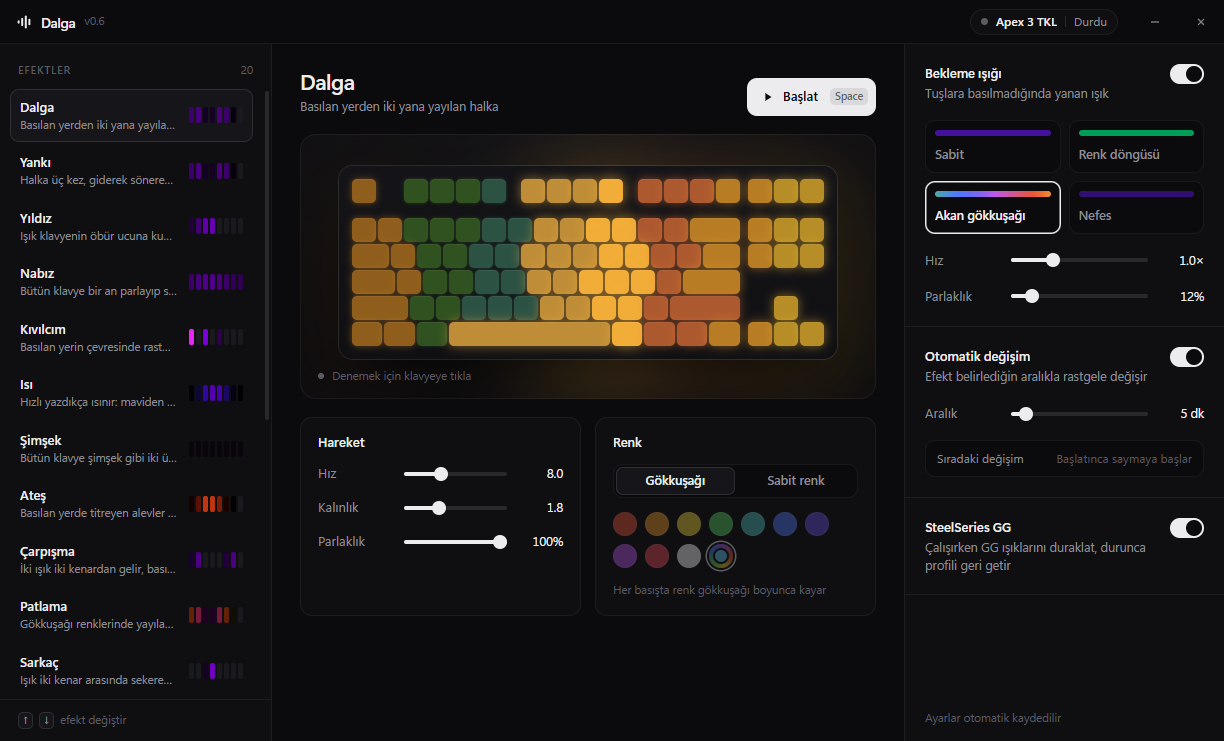
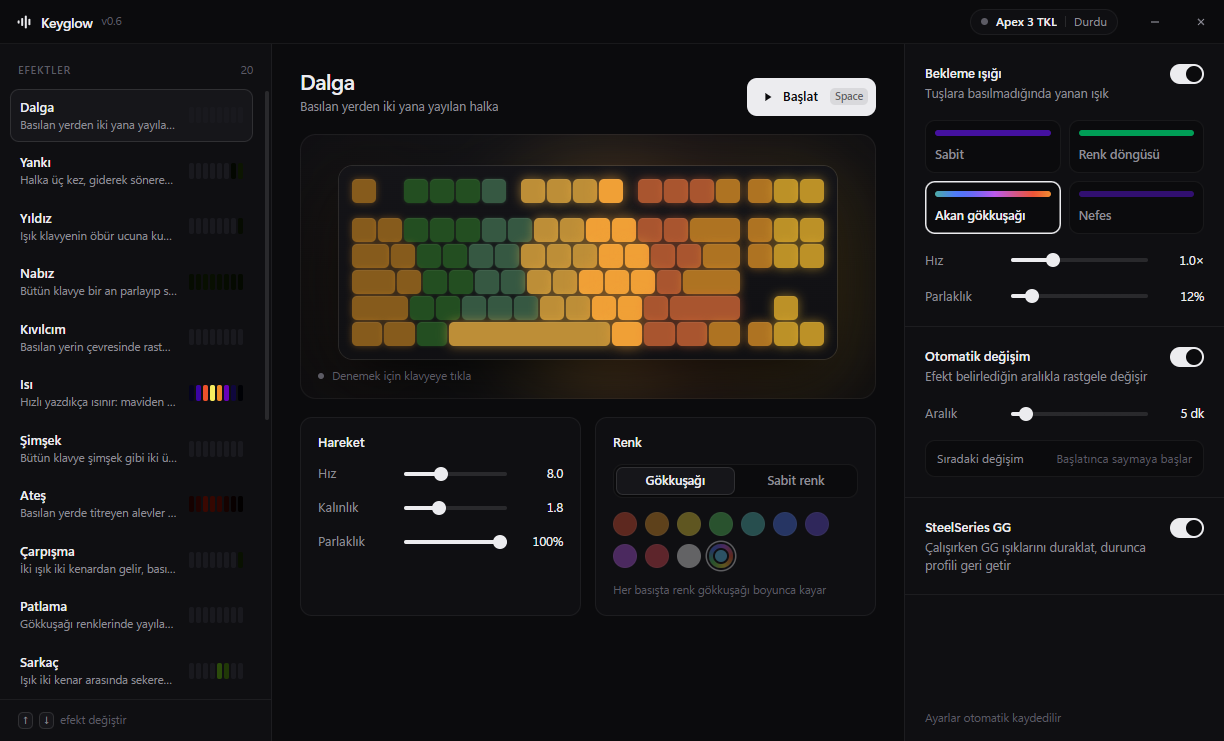
Uygulama adi Keyglow, repo adi keyboard-rgb-effects
Basliklar, README ve ekran goruntuleri yeni ada gore guncellendi; orijinal
Dalga projesine tesekkur korundu.

diff --git a/arayuz/index.html b/arayuz/index.html
@@ -3,7 +3,7 @@
 <head>
   <meta charset="utf-8">
   <meta name="viewport" content="width=device-width, initial-scale=1">
-  <title>Dalga</title>
+  <title>Keyglow</title>
   <link rel="stylesheet" href="style.css">
 </head>
 <body>
@@ -16,7 +16,7 @@
         <rect x="11" y="2" width="2.5" height="16" rx="1.25"/>
         <rect x="15.5" y="6" width="2.5" height="8" rx="1.25"/>
       </svg>
-      <span class="brand-name">Dalga</span>
+      <span class="brand-name">Keyglow</span>
       <span class="brand-version" id="surum"></span>
     </div>
     <div class="titlebar-right">

diff --git a/dalga.py b/dalga.py
@@ -1048,7 +1048,7 @@ class Uygulama:
         self._kayit_zamanlayici = None
         self.deneme = []  # onizlemedeki deneme dalgalari
 
-        root.title("Dalga")
+        root.title("Keyglow")
         root.configure(bg=BG)
         root.resizable(False, False)
 
@@ -1058,7 +1058,7 @@ class Uygulama:
         # --- baslik ---
         ust = tk.Frame(govde, bg=BG)
         ust.pack(fill="x")
-        tk.Label(ust, text="Dalga", font=font(18, True), fg=FG, bg=BG).pack(side="left")
+        tk.Label(ust, text="Keyglow", font=font(18, True), fg=FG, bg=BG).pack(side="left")
         tk.Label(ust, text=SURUM, font=font(9), fg=PASIF, bg=BG).pack(
             side="left", padx=(px(8), 0), pady=(px(8), 0))
         self.durum = tk.Label(ust, text="Durdu", font=font(9), fg=SOLUK, bg=BG)

diff --git a/arayuz_web.py b/arayuz_web.py
@@ -196,7 +196,7 @@ class Api:
 def main():
     api = Api()
     pencere = webview.create_window(
-        "Dalga", HTML, js_api=api, width=1240, height=780, min_size=(1100, 700),
+        "Keyglow", HTML, js_api=api, width=1240, height=780, min_size=(1100, 700),
         frameless=True, easy_drag=False, background_color="#0b0b0d")
     api._pencere = pencere
     pencere.events.loaded += api._baslat_dongu

diff --git a/README.md b/README.md
@@ -1,12 +1,12 @@
 <div align="center">
 
-# Dalga
+# Keyglow
 
 **SteelSeries Apex 3 TKL için tuşa bastıkça yayılan RGB ışık efektleri**
 
 20 efekt · canlı klavye önizlemesi · otomatik efekt değişimi · SteelSeries GG ile uyumlu
 
-![Dalga ana ekranı](docs/ekran-ana.png)
+![Keyglow ana ekranı](docs/ekran-ana.png)
 
 </div>
 
@@ -32,7 +32,7 @@
 - **Efekt galerisi:** Listedeki her efektin yanında o efekti sürekli oynatan küçük bir önizleme vardır.
 - **Bekleme ışığı:** Tuşa basılmadığında yanan ışık için dört mod: Sabit, Renk döngüsü, Akan gökkuşağı ve Nefes. Nefes modu seçili renkle, renk döngüsüyle ya da gökkuşağıyla çalışabilir. Hız ve parlaklık ayarlanabilir.
 - **Otomatik değişim:** Efekt, belirlediğin aralıkta (1-60 dakika) rastgele başka bir efekte geçer.
-- **SteelSeries GG uyumu:** Dalga çalışırken GG'nin kendi ışıkları duraklatılır, durunca GG profilin geri gelir. GG'yi kapatman gerekmez.
+- **SteelSeries GG uyumu:** Keyglow çalışırken GG'nin kendi ışıkları duraklatılır, durunca GG profilin geri gelir. GG'yi kapatman gerekmez.
 - **Kurulum gerektirmeyen sürücü:** Klavyeyle Windows'un kendi HID arayüzü üzerinden konuşur. Ek sürücü ya da SteelSeries yazılımı gerekmez.
 - **Ayarlar otomatik kaydedilir** ve program açılınca kaldığın yerden devam eder.
 
@@ -85,8 +85,8 @@ Hız, Kalınlık ve Parlaklık ayarları her efekte uygulanır. Renk modu "Gökk
 **Adımlar**
 
 ```bash
-git clone https://github.com/alperendilaver/dalga.git
-cd dalga
+git clone https://github.com/alperendilaver/keyboard-rgb-effects.git
+cd keyboard-rgb-effects
 pip install keyboard pywebview
 ```
 
@@ -109,13 +109,13 @@ pywebview kurulu değilse ya da `py dalga.py --klasik` ile başlatırsan, daha s
 
 ## SteelSeries GG ile birlikte kullanım
 
-GG açıkken klavyeye sürekli kendi ışık efektini gönderir ve bu, Dalga'nın renkleriyle karışır. Bunu önlemek için Dalga çalışırken GG'nin ışık motorunu (`SteelSeriesEngine.exe` ve `SteelSeriesPrism.exe`) geçici olarak **dondurur**, durunca kaldığı yerden **devam ettirir**:
+GG açıkken klavyeye sürekli kendi ışık efektini gönderir ve bu, Keyglow'un renkleriyle karışır. Bunu önlemek için Keyglow çalışırken GG'nin ışık motorunu (`SteelSeriesEngine.exe` ve `SteelSeriesPrism.exe`) geçici olarak **dondurur**, durunca kaldığı yerden **devam ettirir**:
 
 - GG'nin geri kalanı (Sonar, arayüz vb.) etkilenmez.
 - Durdurduğunda GG profilin kendiliğinden geri gelir.
-- Dalga beklenmedik şekilde kapanırsa, bir sonraki açılışta donuk kalan süreçler otomatik olarak devam ettirilir. GG'yi yeniden başlatmak da sorunu çözer.
+- Keyglow beklenmedik şekilde kapanırsa, bir sonraki açılışta donuk kalan süreçler otomatik olarak devam ettirilir. GG'yi yeniden başlatmak da sorunu çözer.
 
-Bu davranışı sağ paneldeki **SteelSeries GG** anahtarıyla kapatabilirsin. OpenRGB gibi başka bir RGB yazılımı kullanıyorsan Dalga'yı çalıştırmadan önce onu kapat.
+Bu davranışı sağ paneldeki **SteelSeries GG** anahtarıyla kapatabilirsin. OpenRGB gibi başka bir RGB yazılımı kullanıyorsan Keyglow'u çalıştırmadan önce onu kapat.
 
 ## Nasıl çalışır
 
@@ -158,7 +158,7 @@ Bu davranışı sağ paneldeki **SteelSeries GG** anahtarıyla kapatabilirsin. O
 
 ## Teşekkür
 
-Bu proje, **[savcizz](https://github.com/savcizz)** tarafından yazılan [savcizz/dalga](https://github.com/savcizz/dalga) reposunun bir fork'udur. Apex 3 TKL ile doğrudan HID iletişimi, bölge tabanlı dalga efekti ve ilk arayüz orijinal projeye aittir. Bu fork onların üzerine yeni efektler, modern bir arayüz, SteelSeries GG uyumu ve otomatik efekt değişimi ekler.
+Keyglow, **[savcizz](https://github.com/savcizz)** tarafından yazılan **Dalga** projesinin ([savcizz/dalga](https://github.com/savcizz/dalga)) bir fork'udur. Proje dosyalarının adlarında hâlâ bu orijinal ad (`dalga.py` gibi) kullanılıyor. Apex 3 TKL ile doğrudan HID iletişimi, bölge tabanlı dalga efekti ve ilk arayüz orijinal projeye aittir. Bu fork onların üzerine yeni efektler, modern bir arayüz, SteelSeries GG uyumu ve otomatik efekt değişimi ekler.
 
 Orijinal yazara Instagram'dan da ulaşabilirsin: [@savcizz](https://instagram.com/savcizz)
 
